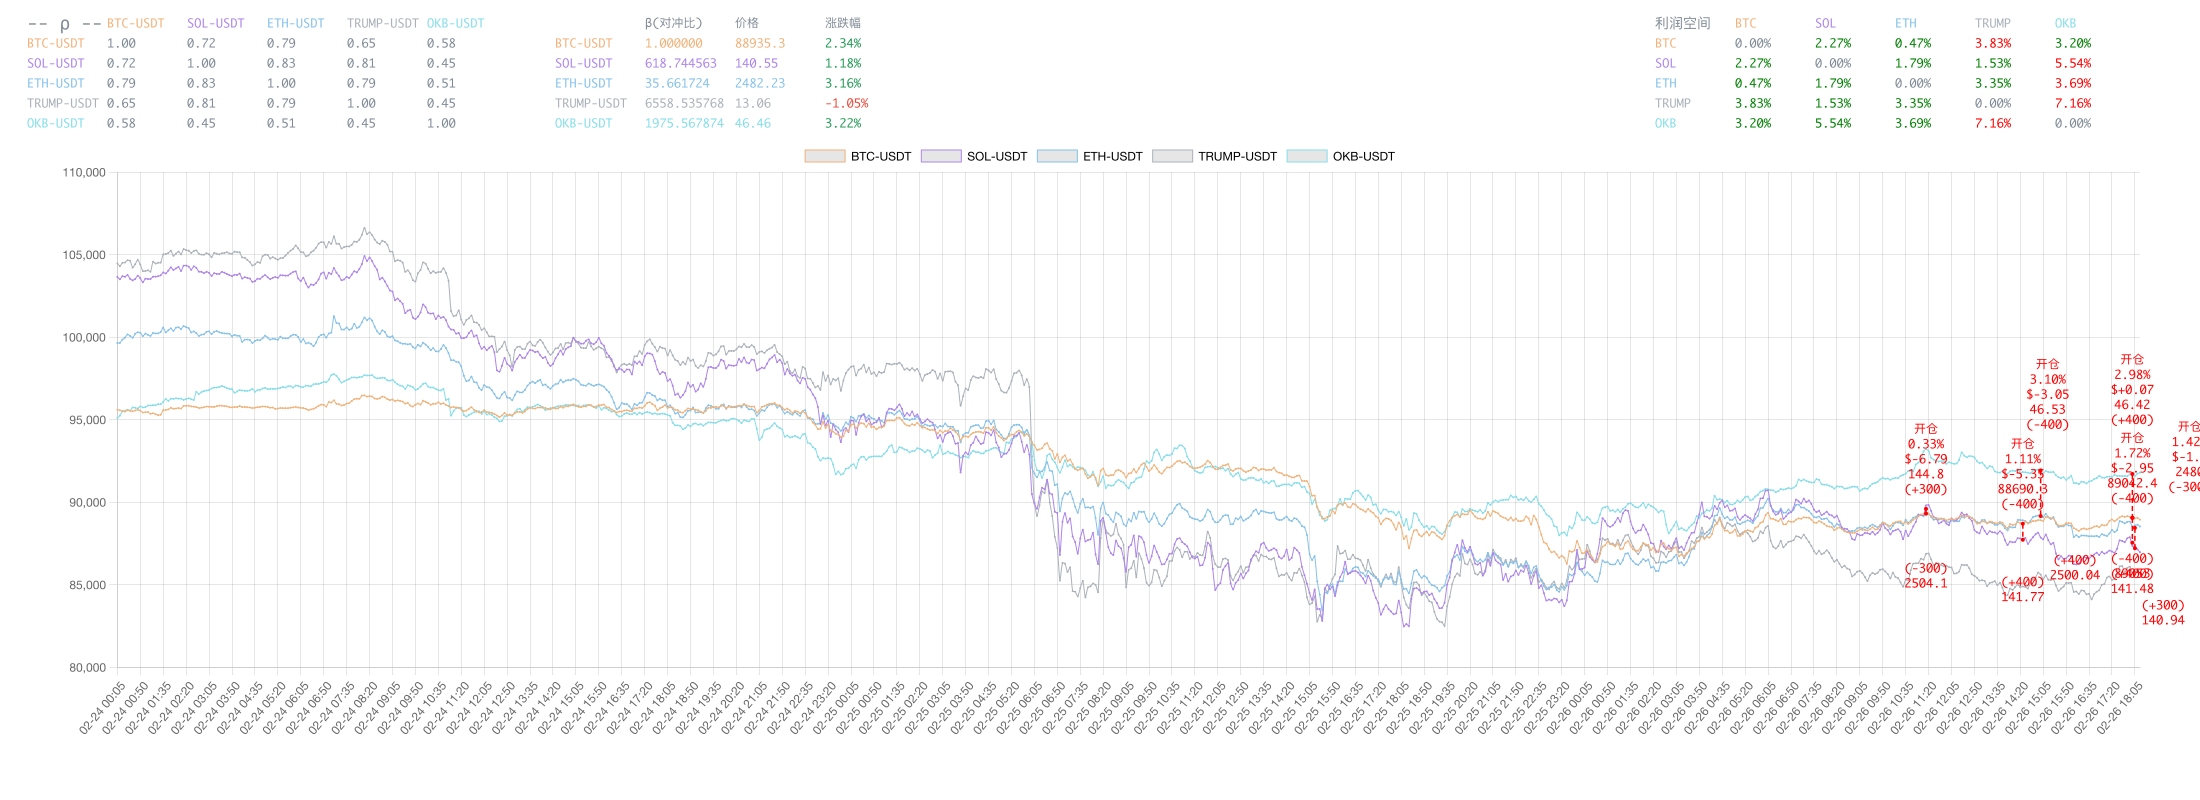
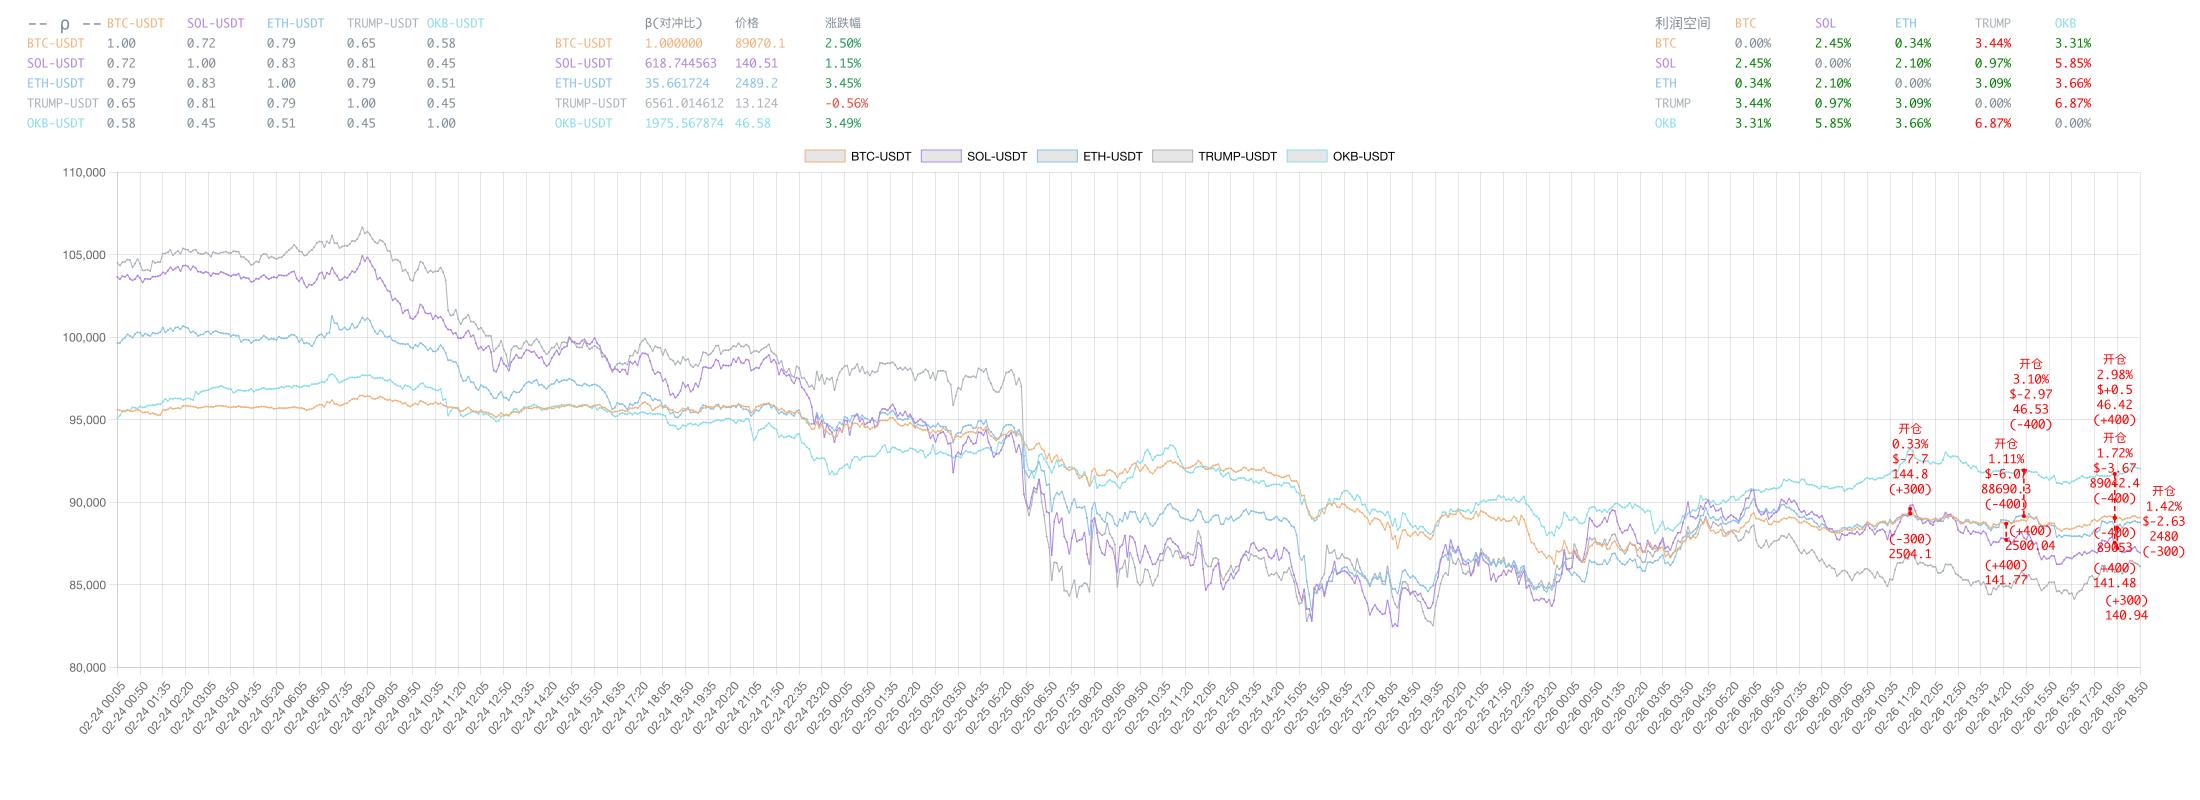
修复开平仓坐标

Changed region(s): [[0.0618, 0.2812, 1.0, 0.8125], [0.0618, 0.8438, 0.9891, 0.9375], [0.3709, 0.125, 0.4018, 0.1562]]

diff --git a/src/paint.js b/src/paint.js
@@ -303,6 +303,9 @@ function paintTransactions(transaction, chart, betaMap, bar_type, labels, collis
 
 
 function paintLine(ctx,[x1, y1, v1], [x2, y2, v2],color, collisionAvoidance){
+
+  const vertical_offset = 10;
+
   ctx.setLineDash([5, 3]);
   // 绘制竖线
   ctx.beginPath();
@@ -327,24 +330,30 @@ function paintLine(ctx,[x1, y1, v1], [x2, y2, v2],color, collisionAvoidance){
   // const {width:w_v1} = ctx.measureText(v1);
 
 
-  const v_arr1 = v1.split("/");
+  const v_arr1 = v1.split("/").reverse();
   const v_w_arr1 = v_arr1.map(v=>ctx.measureText(v).width);
   const max_v_w1 = Math.max(...v_w_arr1);
 
   const v_arr2 = v2.split("/");
   const v_w_arr2 = v_arr2.map(v=>ctx.measureText(v).width);
   const max_v_w2 = Math.max(...v_w_arr2);
+
   
   // 防止重叠，转换坐标
-  ;({x:x1, y:y1} = collisionAvoidance(x1 - max_v_w1 / 2, y1 - 20, max_v_w1, v_arr1.length*15));
-  ;({x:x2, y:y2} = collisionAvoidance(x2 - max_v_w2 / 2, y2 + 20, max_v_w2, v_arr2.length*15));
+  ;({x:x1, y:y1} = collisionAvoidance(x1 - max_v_w1 / 2, y1 - 15 - v_arr1.length*15, max_v_w1, v_arr1.length*15));
+  ;({x:x2, y:y2} = collisionAvoidance(x2 - max_v_w2 / 2, y2 - 15 + v_arr2.length*15, max_v_w2, v_arr2.length*15));
+
+  // ctx.beginPath();
+  // ctx.rect(x1,y1,max_v_w1, v_arr1.length*15)
+  // ctx.rect(x2,y2,max_v_w2, v_arr2.length*15)
+  // ctx.stroke();
 
   // 绘制上边沿
   v_arr1.map((v,i)=>{
-    ctx.fillText(v, x1 + (max_v_w1 - v_w_arr1[i])/2, y1-i*15);
+    ctx.fillText(v, x1 + (max_v_w1 - v_w_arr1[i])/2, y1+i*15 + vertical_offset);
   })  // 绘制下边沿
   v_arr2.map((v,i)=>{
-    ctx.fillText(v, x2 + (max_v_w2 - v_w_arr2[i])/2, y2+i*15);
+    ctx.fillText(v, x2 + (max_v_w2 - v_w_arr2[i])/2, y2+i*15 + vertical_offset);
   })
   
   // 重置虚线样式（恢复为实线）
@@ -562,7 +571,6 @@ export function paintTransactionSlice( tradeId, themes_map, labels, klines, bar_
 
   assetIds = [...new Set(assetIds)];
 
-  debugger
   const scaled_prices = klines.filter(({id, price, ts})=>orders.find(it=>it.instId === id)).map(({id, prices, ts})=>{
     return {
       prices: prices.map(it=>it*order_map[id].beta).slice().reverse(),
